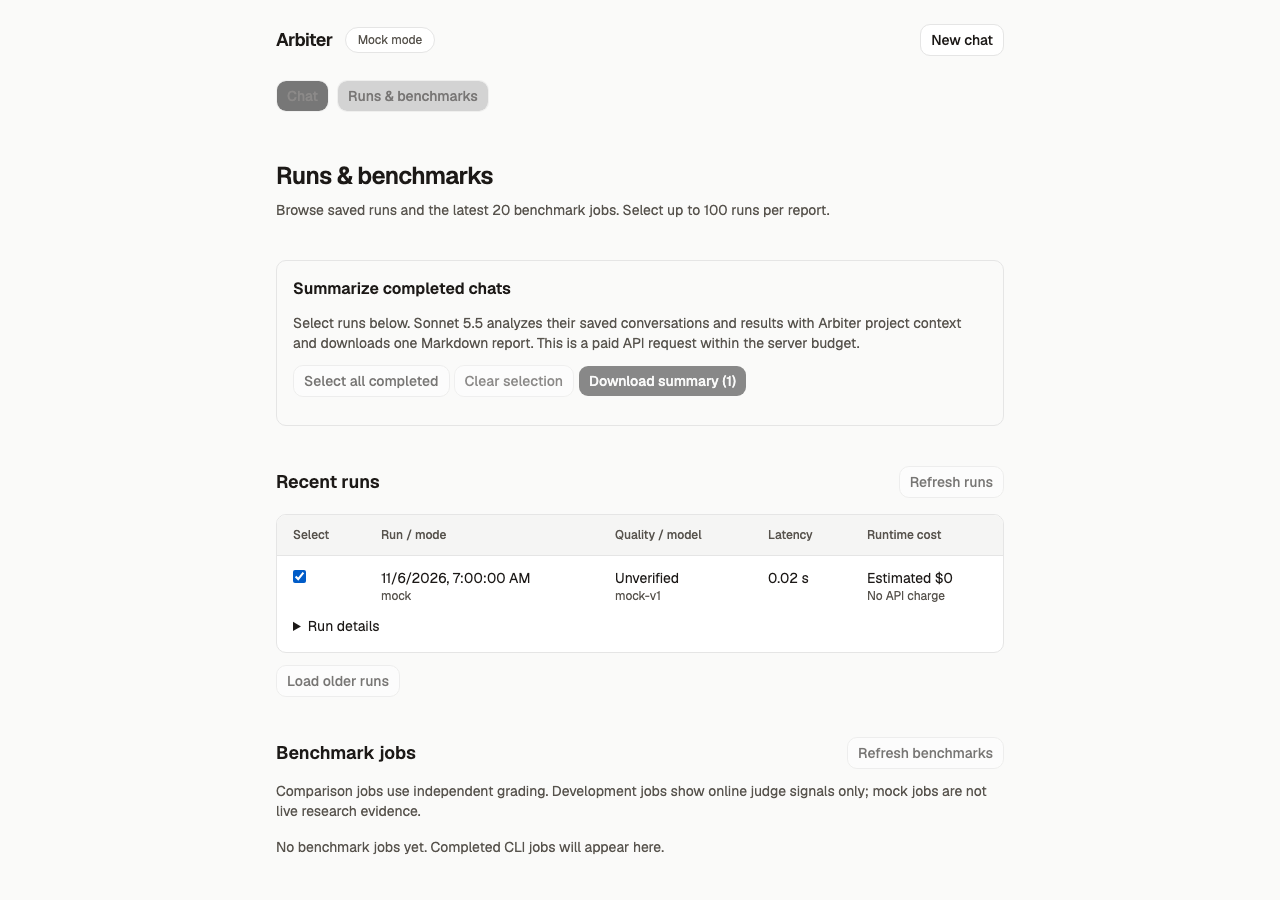
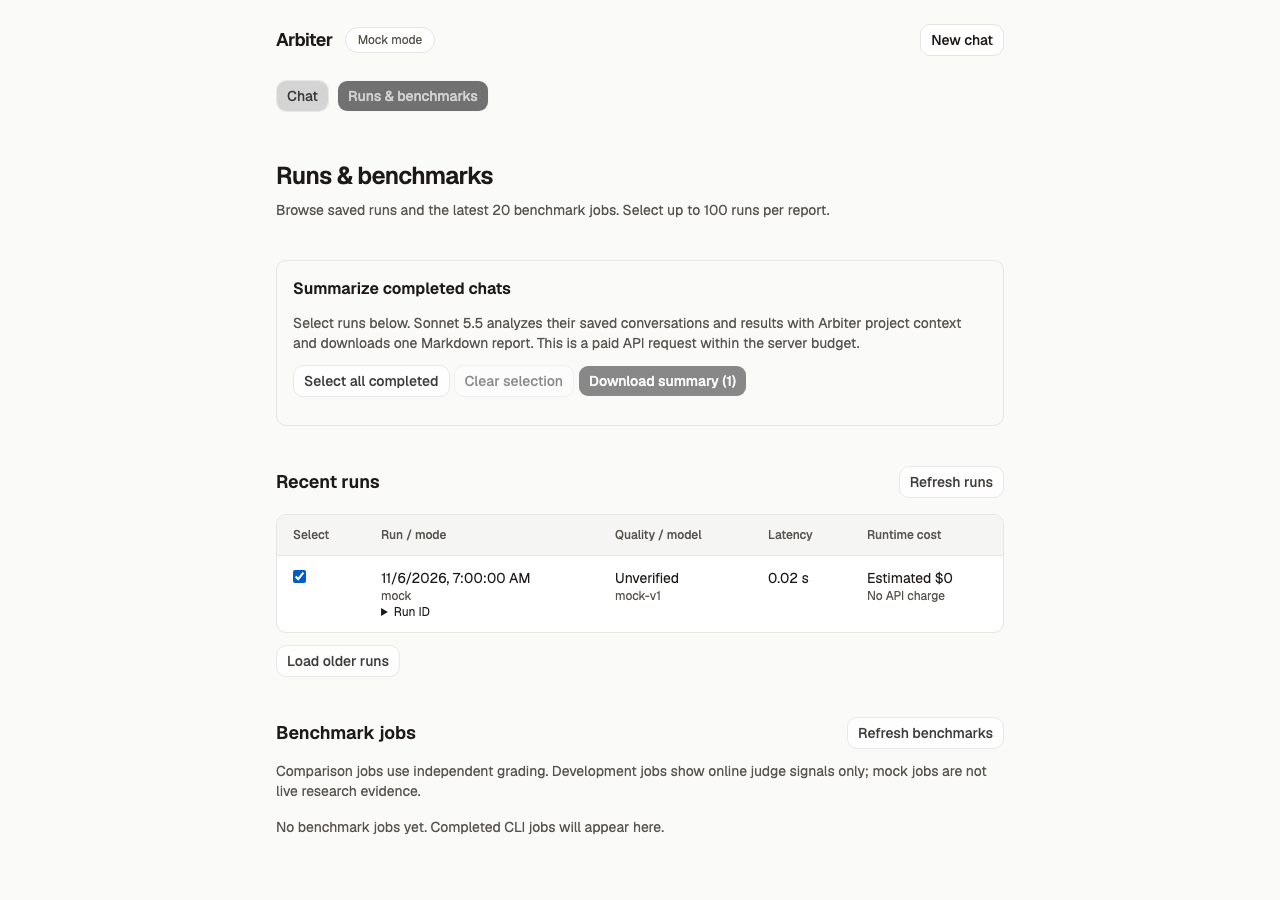
fix(ui): isolate summary view from concurrent detail edits

diff --git a/frontend/src/components/ResultsView.tsx b/frontend/src/components/ResultsView.tsx
@@ -85,7 +85,7 @@ export function ResultsView() {
             <td className="px-4 py-3"><p>{qualityLabel(run.status)}</p><p className="text-xs text-stone-600">{run.final_model ?? 'No model'}</p></td>
             <td className="whitespace-nowrap px-4 py-3">{latencyLabel(run.total_latency_ms)}</td>
             <td className="px-4 py-3">{costLabel(run.total_cost_usd, run.known_cost_usd, run.cost_complete)}{run.mode === 'mock' && <p className="text-xs text-stone-600">No API charge</p>}</td>
-          </tr><tr><td colSpan={5} className="px-4 pb-4"><div className="sticky left-4 w-[calc(100vw-4.5rem)] max-w-[43.25rem]"><RunDetails runId={run.id} /></div></td></tr></Fragment>)}</tbody>
+          </tr>)}</tbody>
         </table>
       </div>}
       <Button className="mt-3" variant="outline" disabled={runsLoading || summarizing} onClick={async () => {
@@ -127,7 +127,7 @@ export function ResultsView() {
             <td className="px-4 py-3"><p>Runtime {costLabel(job.known_cost_usd, job.known_cost_usd, job.cost_complete)}</p>
               {job.scoring_known_cost_usd !== undefined && <p className="mt-1 text-xs text-stone-600">Scoring {costLabel(job.scoring_known_cost_usd, job.scoring_known_cost_usd, job.scoring_cost_complete === true)}</p>}
               <p className="mt-1 text-xs text-stone-600">Budget used / held: ${job.budget_used_usd} / ${job.budget_usd}</p></td>
-          </tr><tr><td colSpan={4} className="px-4 pb-4"><div className="sticky left-4 w-[calc(100vw-4.5rem)] max-w-[43.25rem]"><BenchmarkDetails jobId={job.job_id} /></div></td></tr></Fragment>)}</tbody>
+          </tr>)}</tbody>
         </table>
       </div>}
     </section>

diff --git a/docs/STATUS.md b/docs/STATUS.md
@@ -381,3 +381,10 @@ reservations/results prevent contamination of benchmark/history accounting.
   workflow remains unverified. Apply migration 005 before use.
 - Concurrent expandable-details work was preserved separately. The user stopped
   that task and requested focus on summaries.
+- Integration isolation: the stopped task had changed the checkout branch during
+  this session. Summary commit dfd97da was pushed to feat/run-summaries; follow-up
+  removes leftover expandable-detail markup from the isolated commit. Other task
+  edits remain uncommitted. The isolated summary frontend build and two browser
+  download tests passed after correction; screenshots were regenerated.
+- Next action: review the summary PR, supply a working test-database connection,
+  verify migration/persistence, then apply migration 005 to the app database.
